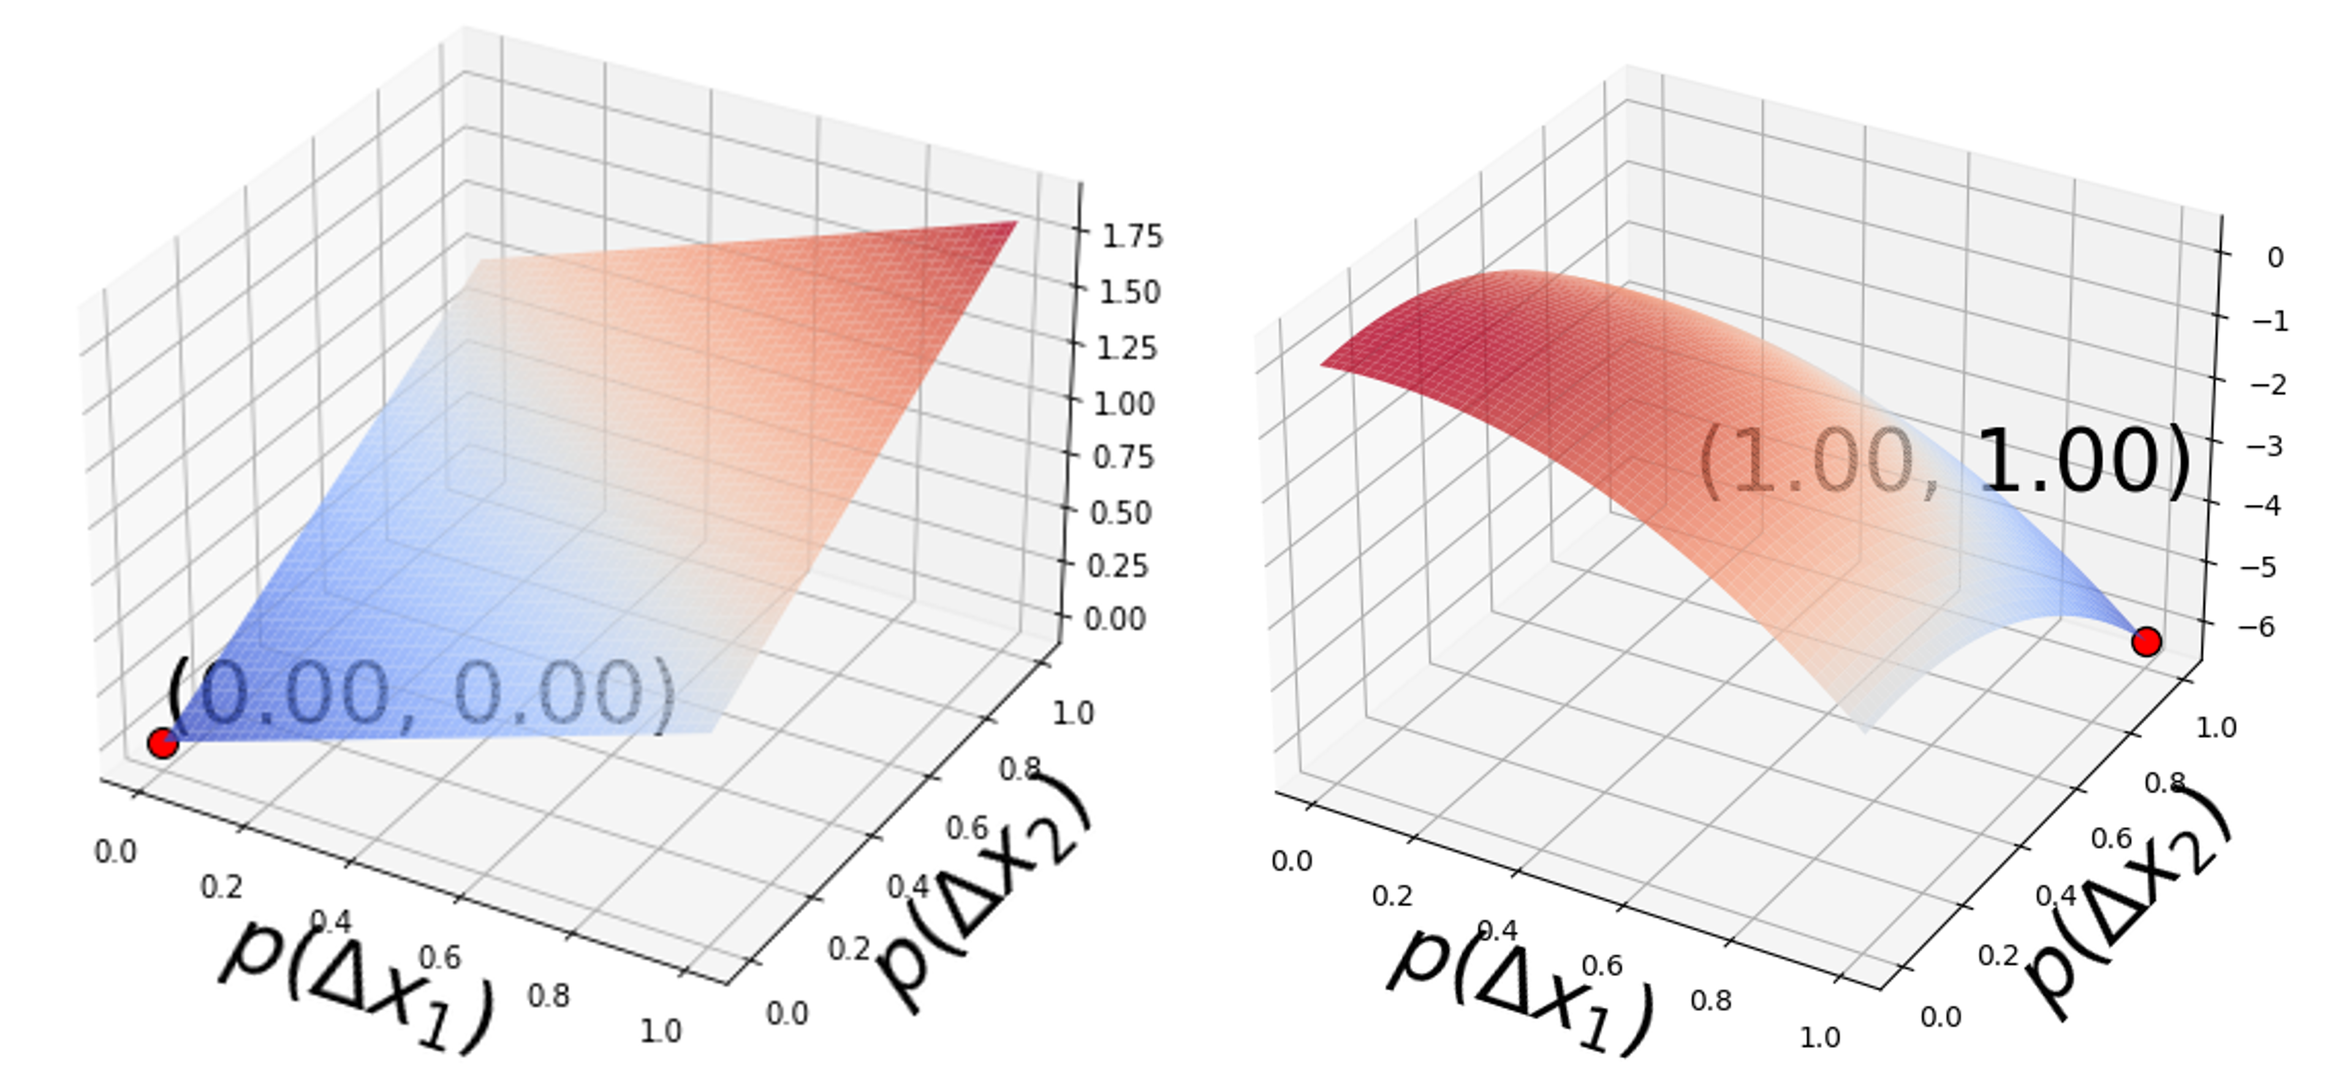
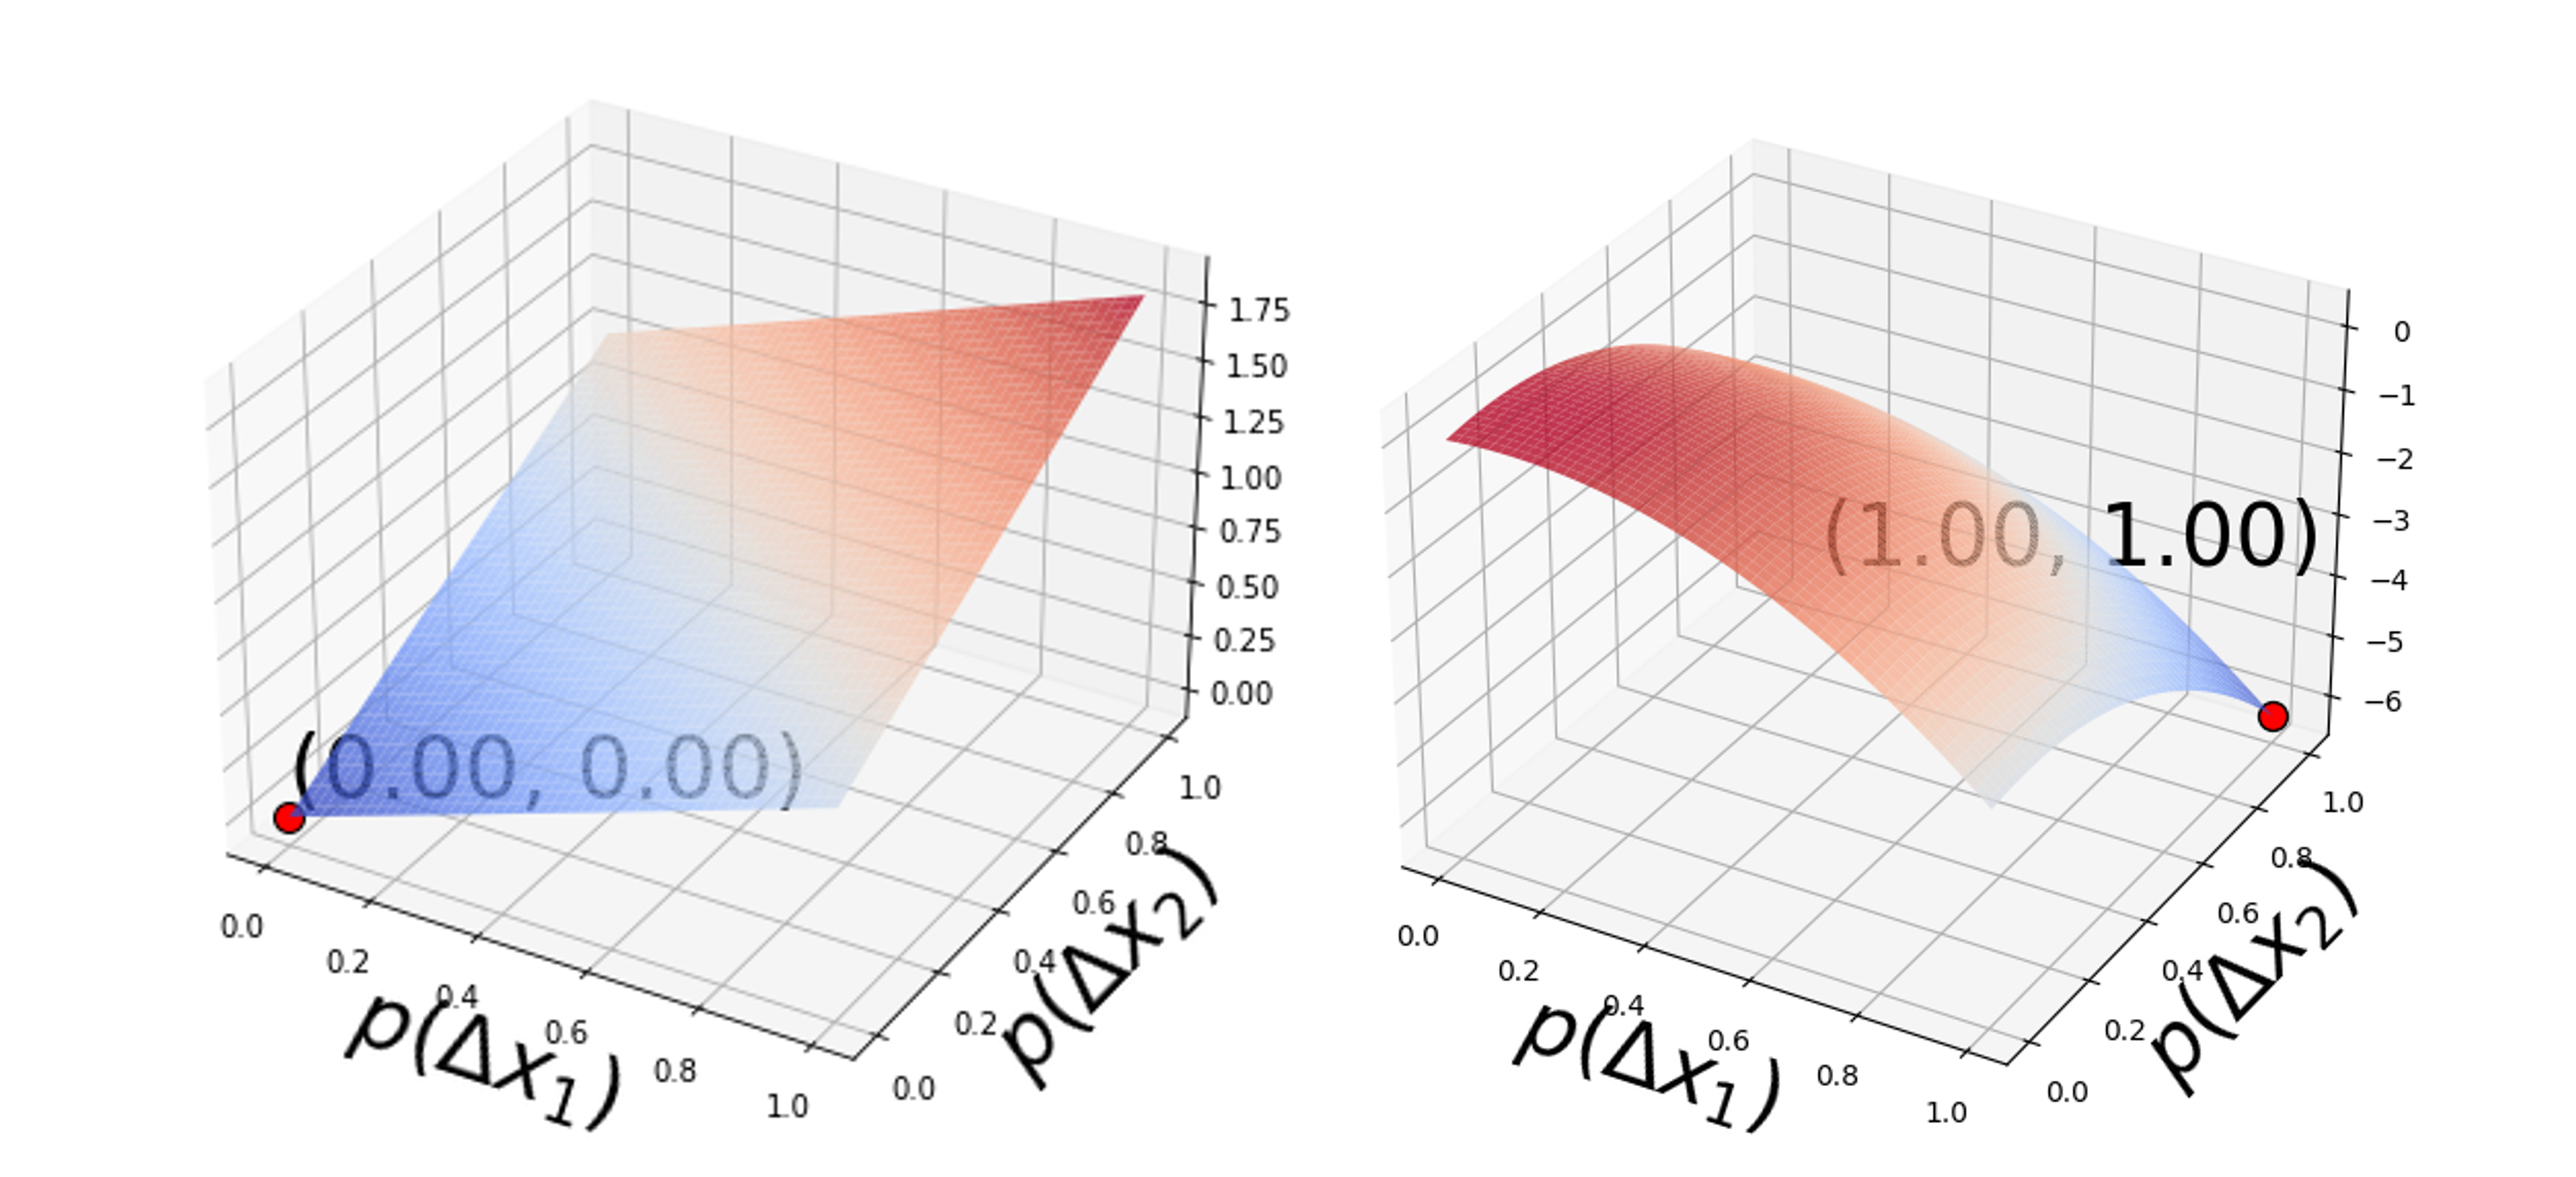
images

diff --git a/assets/css/publications.css b/assets/css/publications.css
@@ -70,7 +70,7 @@ blockquote { background: var(--global-bg-color); border-left: 2px solid var(--gl
 
 .selected-pub-img img { width: 230px; min-width: 230px; height: 130px; border-radius: 4px; object-fit: contain; background-color: #ffffff; box-shadow: 2px 2px 6px rgba(0,0,0,0.12); display: block; }
 
-@media (prefers-color-scheme: dark) { .selected-pub-img img { background-color: #2a2a2a; } }
+@media (prefers-color-scheme: dark) { .selected-pub-img img { background-color: #ffffff; } }
 
 .selected-pub-img .badge { position: absolute; top: 8px; left: 8px; background-color: var(--global-theme-color); padding-left: 0.9rem; padding-right: 0.9rem; }
 
